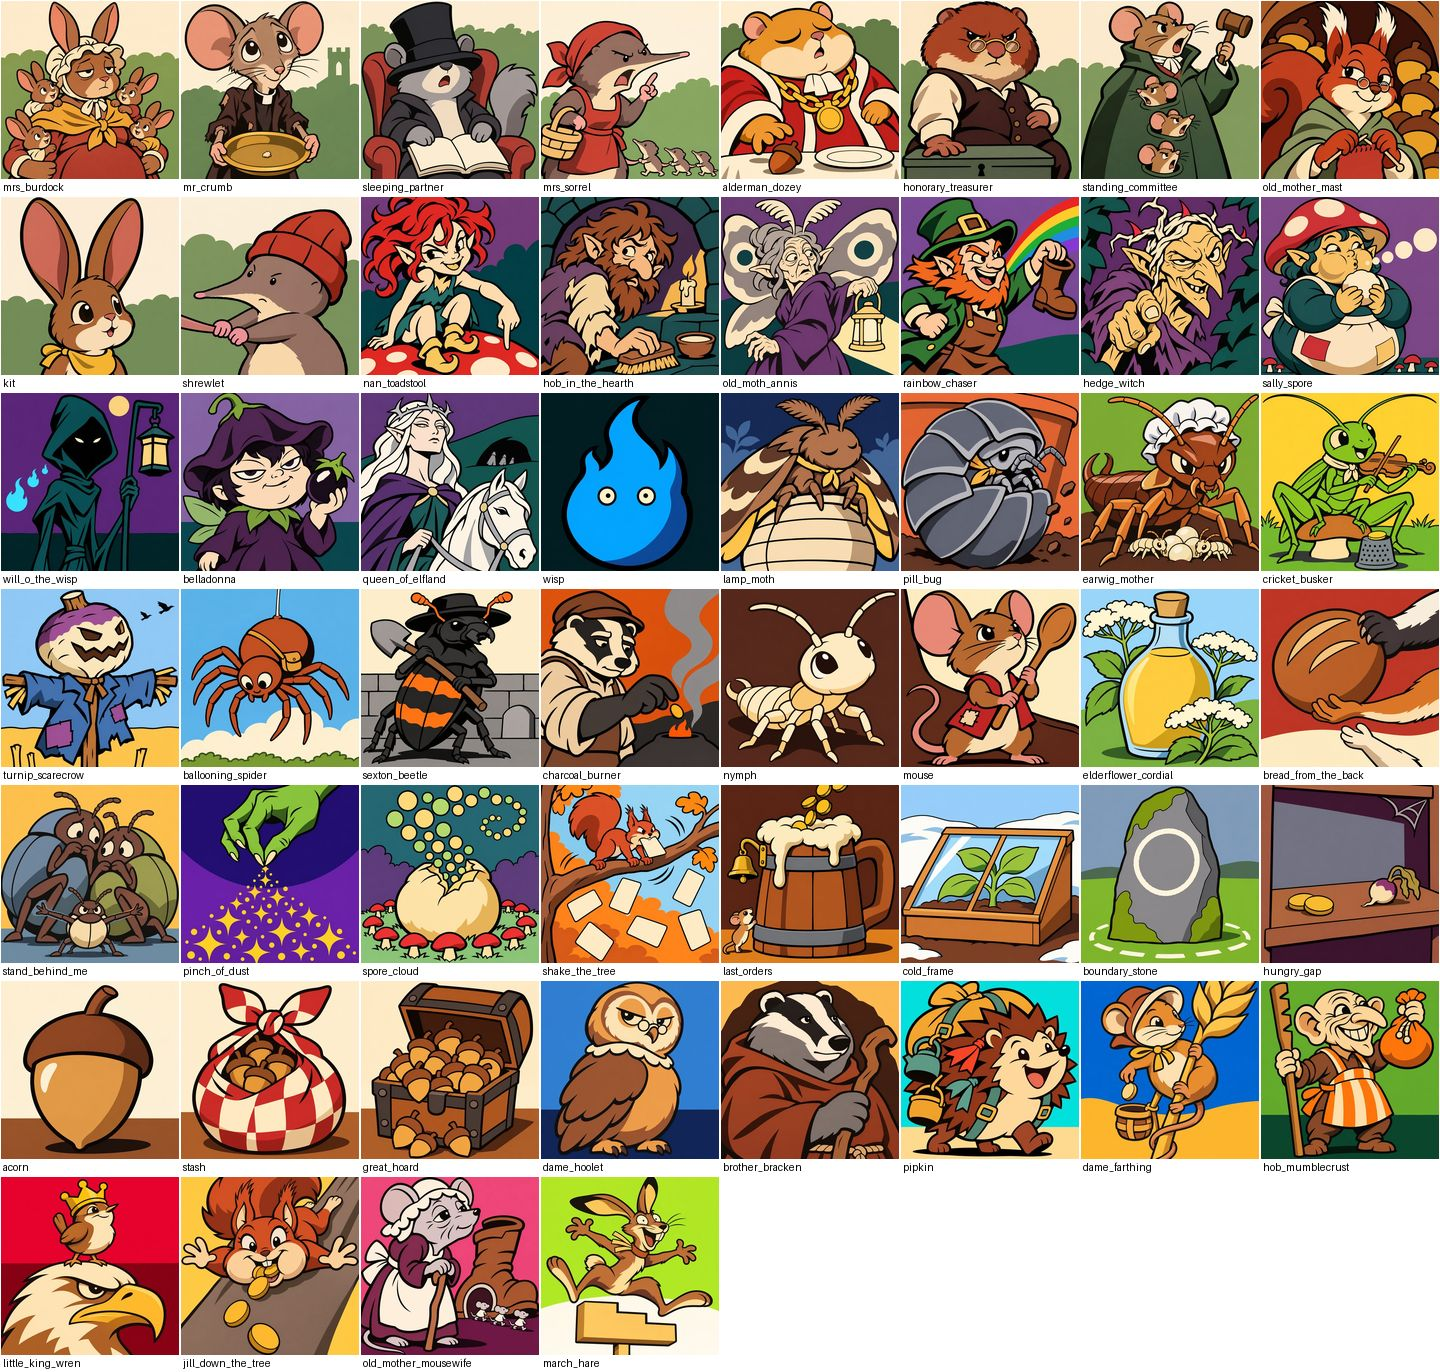
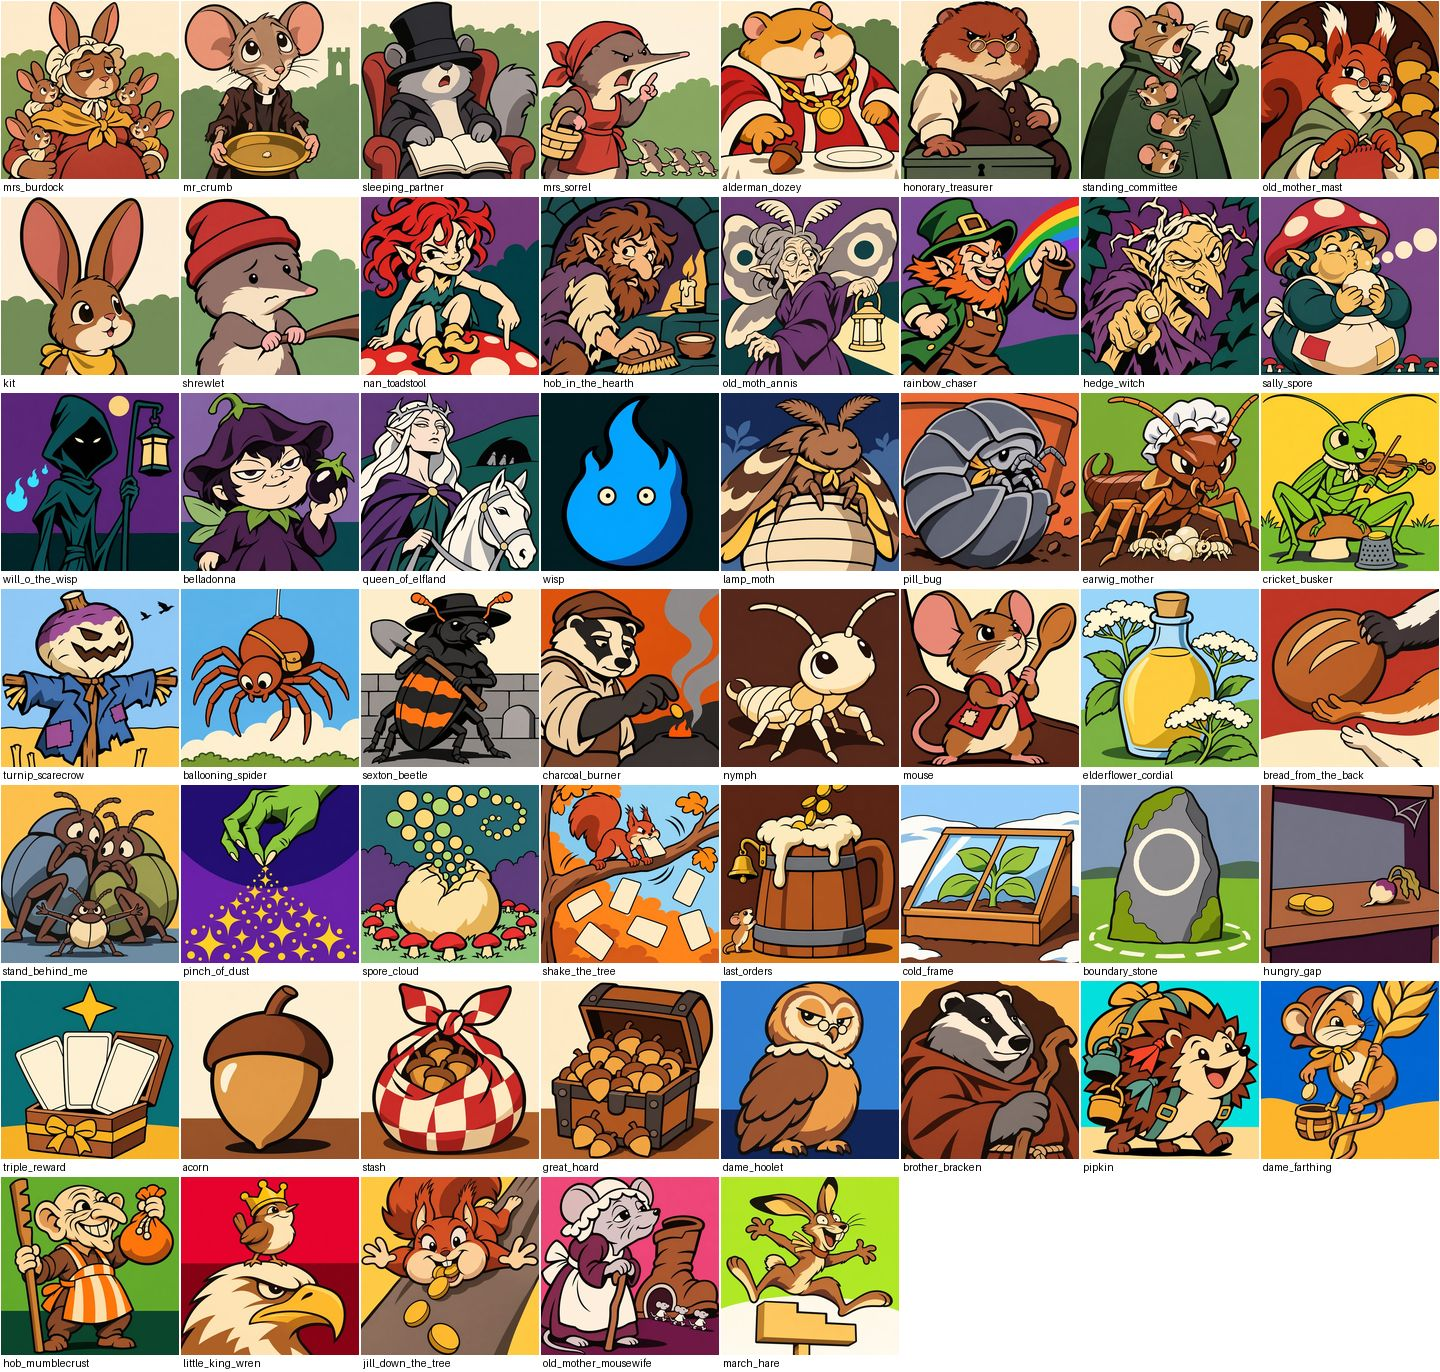
Art review fixes: phone Power leaf, Triple Reward, no nut fallback, portrait test
The Power leaf is 122 again on phones, where a finger needs it, and a test now covers an activated hero there. Adds the Triple Reward portrait and a better Shrewlet. All slice items have portraits, so the nut pictures are gone. A new test proves every slice card, token, item and hero reaches its own portrait through the real widgets.

Claude-Session: https://claude.ai/code/session_013aVwzAnxmdxxFme7JYniB7

Changed region(s): [[0.0, 0.7041, 1.0, 1.0], [0.125, 0.1224, 0.25, 0.2755]]

diff --git a/docs/ideation/evidence/art/README.md b/docs/ideation/evidence/art/README.md
@@ -1,6 +1,6 @@
 # Slice portraits: how they were made
 
-52 portraits: 25 units, 5 tokens (Kit, Shrewlet, Wisp, Nymph, Mouse), 10 spells, Acorn, Stash, Great Hoard, 9 heroes. `slice-contact-sheet.jpg` shows them all at 180 px, the size they have to read at.
+53 portraits: 25 units, 5 tokens (Kit, Shrewlet, Wisp, Nymph, Mouse), 10 spells, Acorn, Stash, Great Hoard, Triple Reward, 9 heroes. `slice-contact-sheet.jpg` shows them all at 180 px, the size they have to read at.
 
 **Prompts.** `tools/art/prompts/slice-*.txt`: one fixed header with the owner's Ink + flat B rules and their NO rules, one family block, then numbered `filename -- description` items from the art direction lines in `docs/ideation/content/`. Run with `tools/art/run-codex-image.sh <prompt> <outdir> <reference images>`. The Ink B trials of the marmot and otter (`docs/folio/art/web/trials/`) go in as style references.
 
@@ -12,6 +12,6 @@
 
 **Regenerated after review (`slice-regen-*.txt`):** Earwig Mother (looked like a scorpion), Nymph, Mrs Sorrel, Shrewlet, Sleeping Partner, Belladonna, Spore Cloud (looked like an explosion), Pinch of Dust, Brother Bracken (too small), Pipkin (not hedgehog enough), Old Mother Mousewife (too like Dame Farthing), Jill (face too low to survive the crop).
 
-**Delivery.** `tools/art/portraits.py export <masters> assets/portraits` writes 512 px JPEGs at quality 82: 2.6 MB in all. Godot's import is lossless, so these and the tribe portraits take about 18 MB in `.godot/imported`. Masters stay in `docs/folio/art/masters/slice/`, not in git.
+**Delivery.** `tools/art/portraits.py export <masters> assets/portraits` writes 512 px JPEGs at quality 82: about 2.7 MB in all. Godot's import is lossless, so these and the tribe portraits take about 18 MB in `.godot/imported`. Masters stay in `docs/folio/art/masters/slice/`, not in git.
 
-**UI changes.** Units, spells, heroes and tokens already looked in `assets/portraits/`. Acorn items now use theirs too, with the nut icon as the fallback. The crop starts higher (0.2 of the spare height, was 0.3) so faces survive wide windows. The hero's Power leaf is 22 units shorter so an activated hero's portrait isn't a thin band.
+**UI changes.** Units, spells, heroes and tokens already looked in `assets/portraits/`. Acorn items now use theirs too, and the old nut pictures are gone. `tests/ui/test_portraits.gd` proves every slice card reaches its own portrait through the tile, detail, plaque and picker. The crop starts higher (0.2 of the spare height, was 0.3) so faces survive wide windows. The hero's Power leaf is 22 units shorter on desktop so an activated hero's portrait gets more room; on a phone it stays 122, the finger-sized minimum, so that portrait is a band there and the full picture is one tap away in the card detail.
